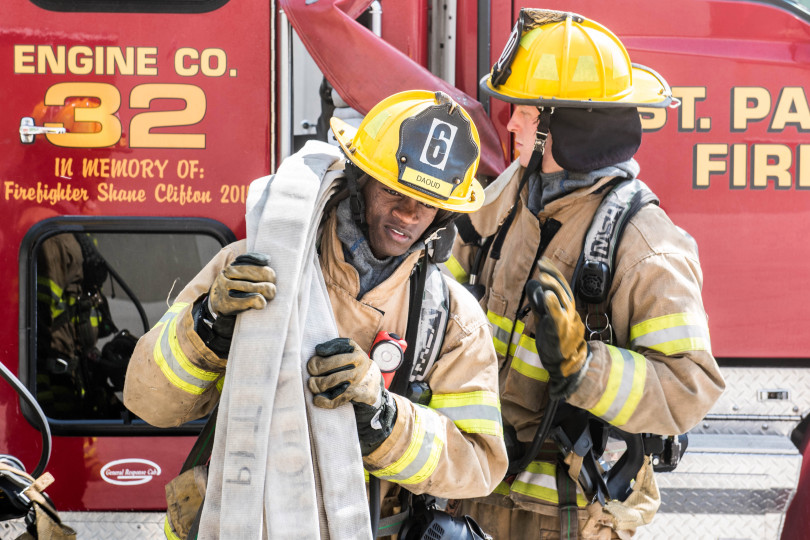
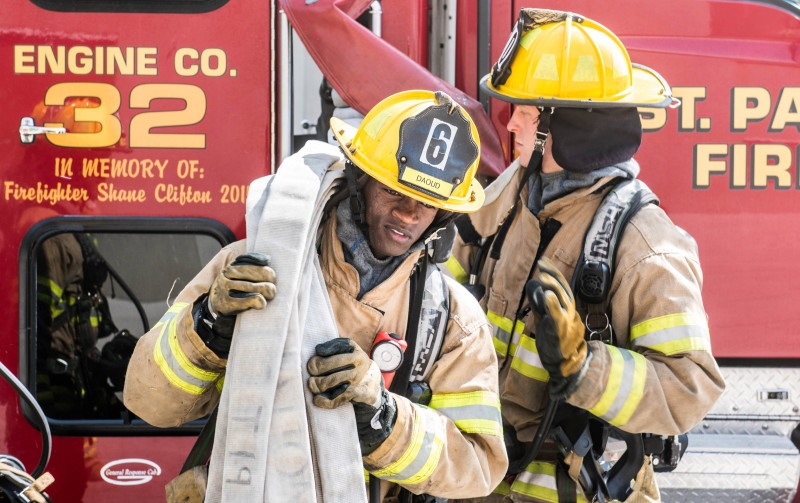
Update

diff --git a/app/public/css/ocfr.css b/app/public/css/ocfr.css
@@ -3,7 +3,7 @@ color:black
 }
 
 h1{
-    color: grey;
+    color: black;
     font-size: 30px;
     font-weight: bold;
 }
@@ -19,18 +19,12 @@ h3{
     font-weight: bold;
   }
 
-.bolding{
-color: black;
-background-color: white;
-font-weight: bold;
-}
-
-img {
-  height: 600px;
-  width:700px;
-}
-
-
 a {
   color: Black;
+}
+
+.center {
+  display: run-in;
+  margin-left: auto;
+  margin-right: auto;
 }

diff --git a/app/public/index.html b/app/public/index.html
@@ -33,9 +33,11 @@
   </div>
 </nav>
 
+<p></p>
 <h1><center>Welcome to Oconee County Fire Rescue (OCFR)</center></h1>
 <p></p>
-<img src="img/firefighters.png" alt="firefighter" >
+<img src="img/DSC_4676-2.jpg" alt="Firefighters" class="center">
+
 <table align = "center">
 <tr>
   <td>
